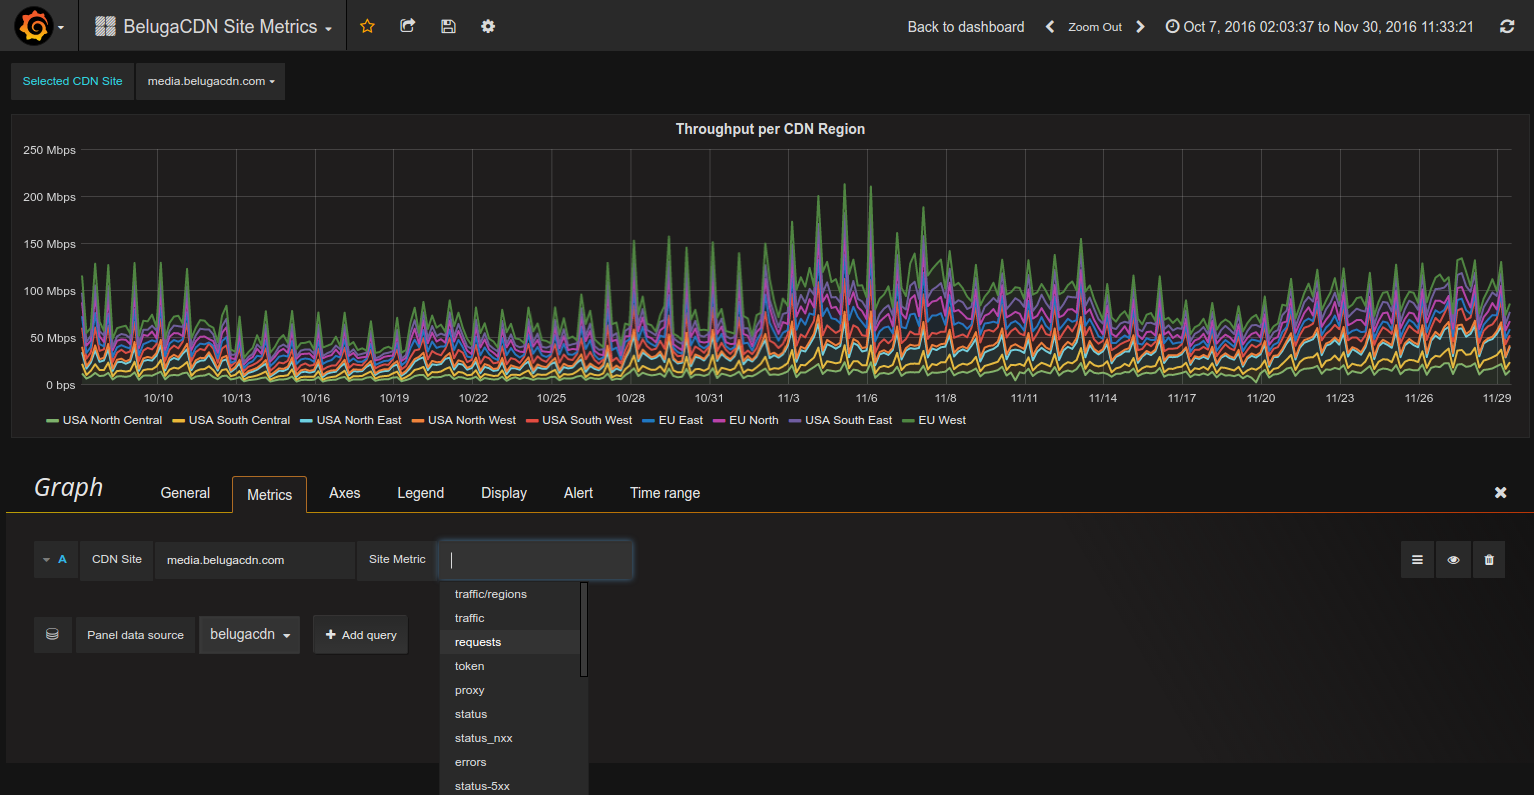
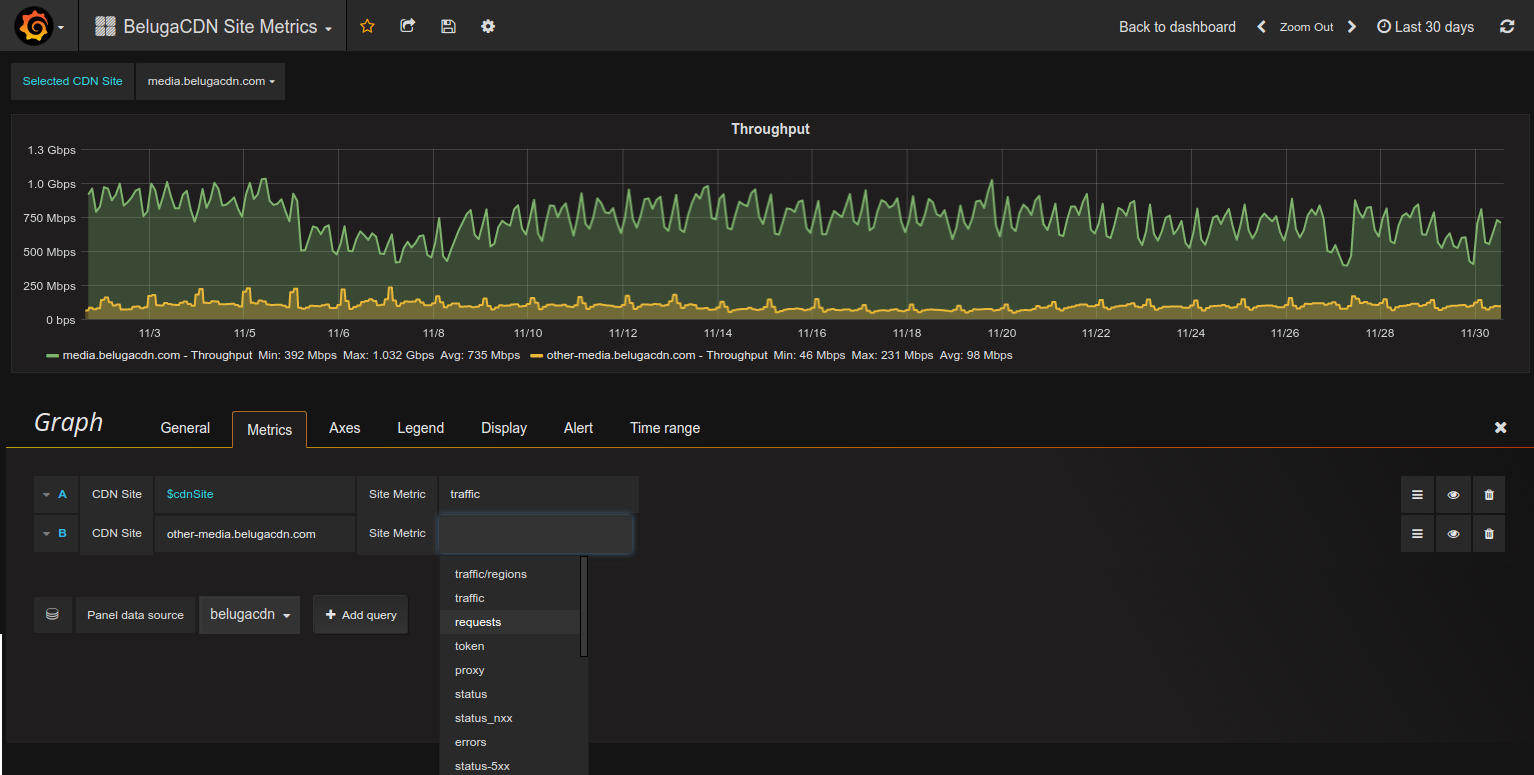
Update dist/

diff --git a/dist/datasource/datasource.js b/dist/datasource/datasource.js
@@ -59,7 +59,14 @@ System.register(["lodash", "../crypto-js", "../moment"], function (_export, _con
         _createClass(GenericDatasource, [{
           key: "query",
           value: function query(options) {
-            var _this = this;
+            var queries = [];
+            _.each(options.targets, _.bind(function (target) {
+              if (target.hide) {
+                return;
+              }
+              var query = this.buildQueryParameters(options);
+              queries.push(query);
+            }, this));
 
             var query = this.buildQueryParameters(options);
 
@@ -70,39 +77,60 @@ System.register(["lodash", "../crypto-js", "../moment"], function (_export, _con
               return this.q.when({ data: [] });
             }
 
-            var target = options.targets[0];
+            var allQueryPromise = _.map(queries, _.bind(function (query, index) {
+              return this.makeQueryCall(query, options.targets[index], options);
+            }, this));
+            return this.q.all(allQueryPromise).then(function (allResponse) {
+              var result = [];
+              _.each(allResponse, function (response) {
+                _.each(response.data, function (d) {
+                  result.push(d);
+                });
+              });
+              return { data: result };
+            });
+          }
+        }, {
+          key: "makeQueryCall",
+          value: function makeQueryCall(query, target, options) {
+            var _this = this;
 
             var rStart = Math.round(Date.parse(options.range.from._d) / 1000).toString();
             var rEnd = Math.round(Date.parse(options.range.to._d) / 1000).toString();
             var timeFrame = rStart + '-' + rEnd;
-
             var path = '/api/cdn/v2/metrics/' + target.siteName + '/' + timeFrame + '/' + target.metricName + '?output=json';
+            var url = this.url + path;
 
             return this.backendSrv.datasourceRequest({
-              url: this.url + path,
+              url: url,
               method: 'GET'
             }).then(function (response) {
-              response.data = _this.formatRawBeluga(response);
-              return response;
+              if (!response.error) {
+                var result = _this.formatRawBeluga(response, target);
+                return { data: result };
+              }
             });
           }
         }, {
           key: "formatRawBeluga",
-          value: function formatRawBeluga(data) {
-            var output = [];
-            if (data.data.series) {
-              data = data.data.series;
-            }
-            _.map(data, function (item, index) {
-              var datapoints = _.map(data[index].data, function (d) {
-                return [d[1], d[0]];
+          value: function formatRawBeluga(data, target) {
+            if (!data.data.error) {
+              var output = [];
+              if (data.data.series) {
+                data = data.data.series;
+              }
+              _.map(data, function (item, index) {
+                var datapoints = _.map(data[index].data, function (d) {
+                  return [d[1], d[0]];
+                });
+                var label = target.siteName + " - " + data[index].name;
+                output[index] = {
+                  "target": label,
+                  "datapoints": datapoints
+                };
               });
-              output[index] = {
-                "target": data[index].name,
-                "datapoints": datapoints
-              };
-            });
-            return output;
+              return output;
+            }
           }
         }, {
           key: "testDatasource",

diff --git a/src/datasource/datasource.js b/src/datasource/datasource.js
@@ -79,13 +79,12 @@ export class GenericDatasource {
         var datapoints = _.map(data[index].data, (d) => {
           return [d[1], d[0]];
         });
-        var label = target.siteName + " - " + data[index].name; 
+        var label = target.siteName + " - " + data[index].name;
         output[index] = {
           "target": label,
           "datapoints": datapoints
         };
       });
-      
       return output;
     }
   }
